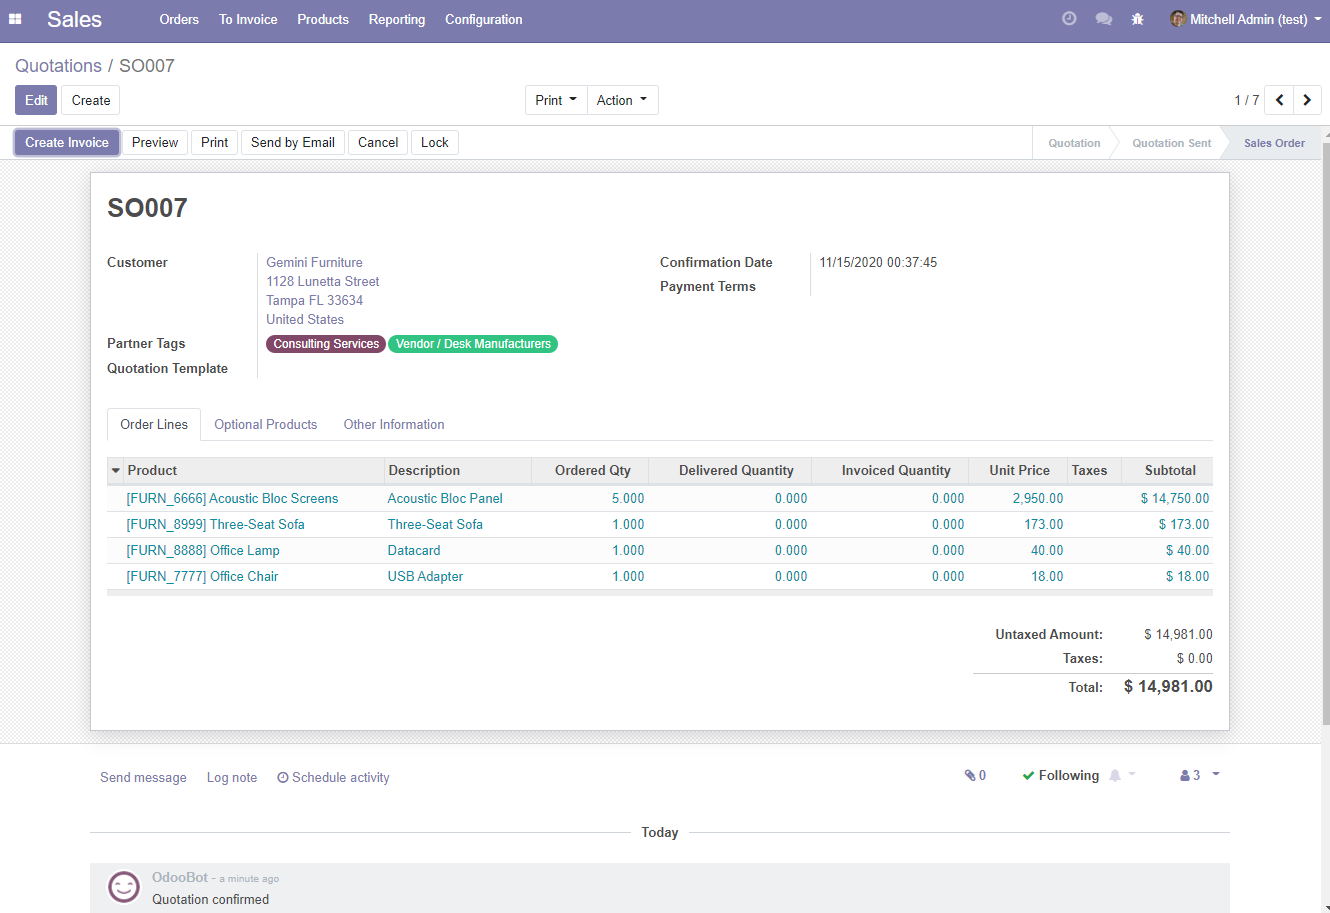
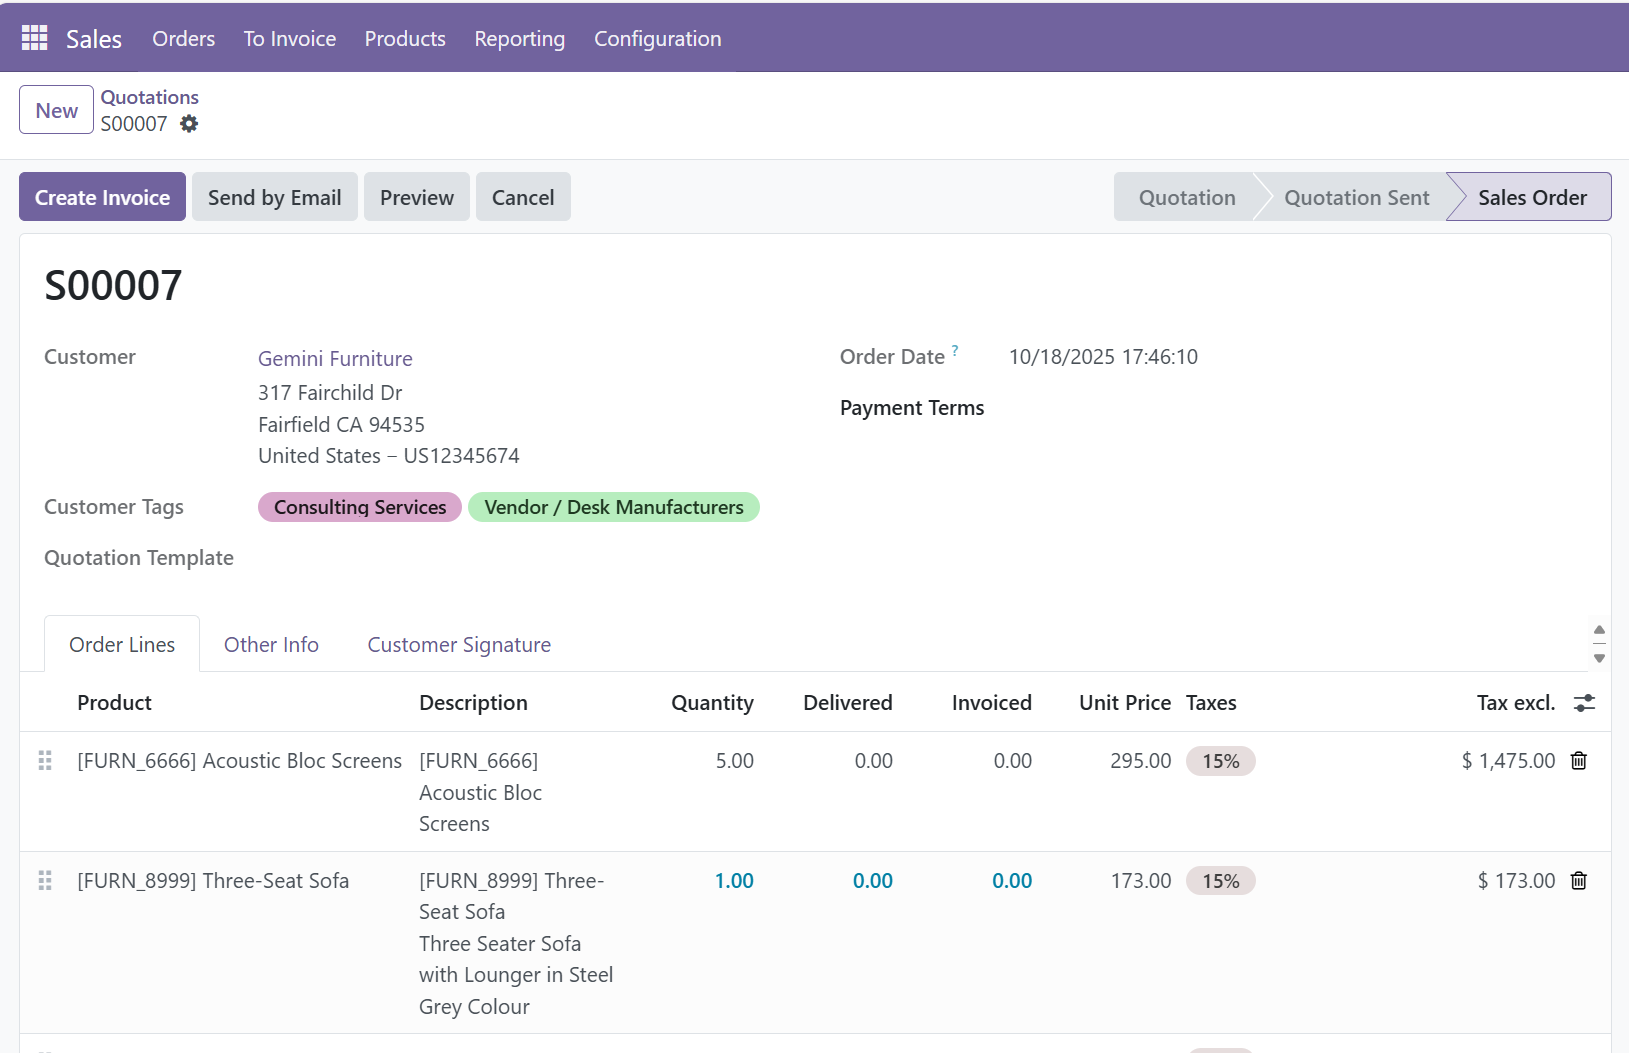
init: v17

diff --git a/customer_tags_sale_order/__manifest__.py b/customer_tags_sale_order/__manifest__.py
@@ -3,7 +3,7 @@
 {
     "name": "Customer Tags in Sale Order",
     "summary": "Show customer tags in sale order",
-    "version": "16.0.1.0.0",
+    "version": "17.0.1.0.0",
     "category": "Tools",
     "website": "https://holoborodko.com.ua/?ref=customer_tags_sale_order",
     "author": "Bohdan Holoborodko",
